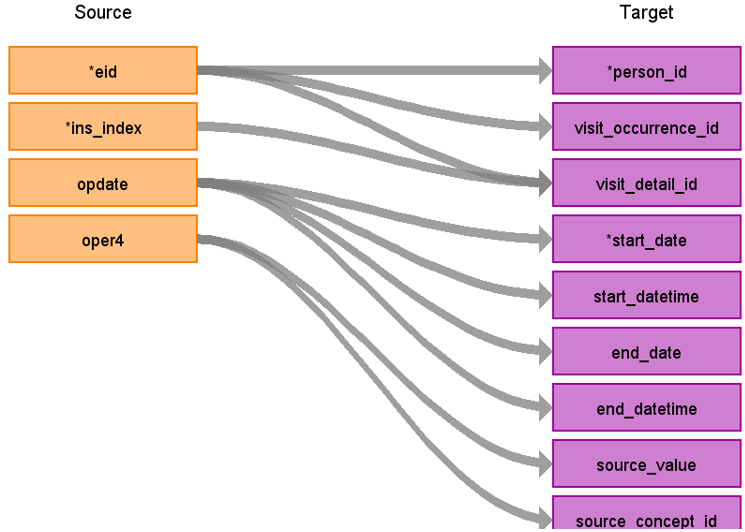
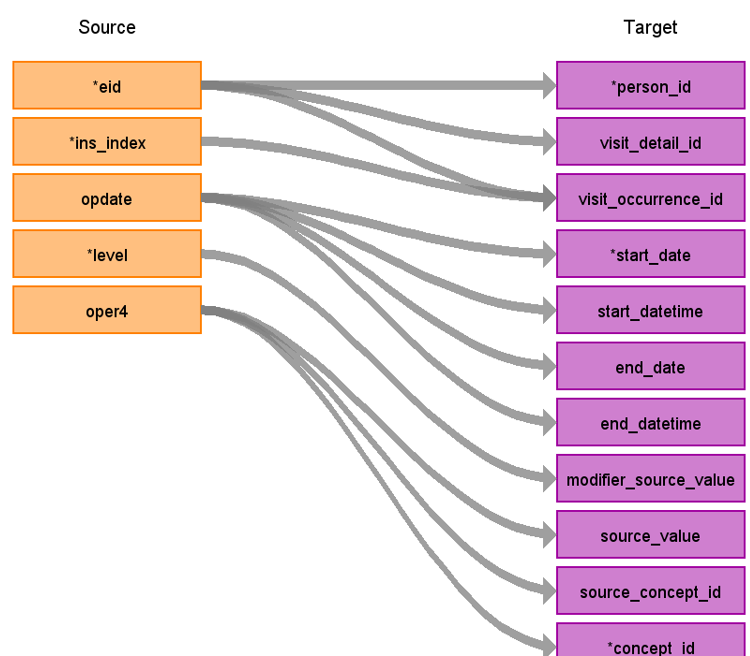
HESIN Minor Fix18

Changed region(s): [[0.0, 0.0, 1.0, 1.0], [0.6792, 0.5414, 0.7409, 0.5714]]

diff --git a/docs/UK_BIOBANK/UKB_HESIN/UKB_HESIN_STEM.md b/docs/UK_BIOBANK/UKB_HESIN/UKB_HESIN_STEM.md
@@ -42,15 +42,15 @@ description: "Stem table description"
 | id|||Autogenerate|
 | domain_id | NULL | | | 
 | person_id | eid | | | 
-| visit_occurrence_id |eid,<br>hesin.spell_index | | Use eid, hesin.spell_index to retrieve visit_occurrence_id |
-| visit_detail_id|eid,<br>ins_index ||Use eid, ins_index to retrieve visit_detail_id |
-| source_value| oper4 | Add dots when necessary| OPCS4 Codes are provided without dots|
+| visit_occurrence_id |eid,<br>hesin.spell_index | |  |
+| visit_detail_id|eid,<br>ins_index |||
+| source_value| oper4 | add dots when necessary| OPCS4 codes are provided without dots|
 | source_concept_id | oper4 | | |
-| type_concept_id |  | 32829 | |
+| type_concept_id |  | [32829 - EHR administration record](https://athena.ohdsi.org/search-terms/terms/32829)| | |
 | modifier_source_value | level | | |
-| start_date | opdate,<br>hesin.epistart | | If opdate is null then use hesin.epistart|
+| start_date | opdate,<br>hesin.epistart | | use the first not null of (opdate,hesin.epistart)|
 | start_datetime | opdate,<br>hesin.epistart |   | |
-| end_date | opdate,<br>hesin.epistart | | If opdate is null then use hesin.epistart |
+| end_date | opdate,<br>hesin.epistart | | use the first not null of (opdate,hesin.epistart) |
 | end_datetime | opdate,<br>hesin.epistart  | | |
-| concept_id  | NULL  |  |  |
+| concept_id  | oper4  |  | use OPSC4 vocabulary |
 | stem_source_table | | hesin_oper | |
